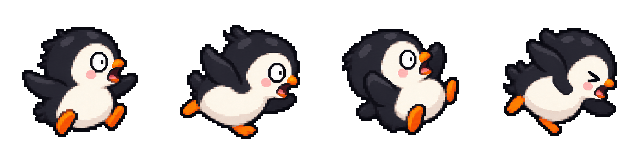
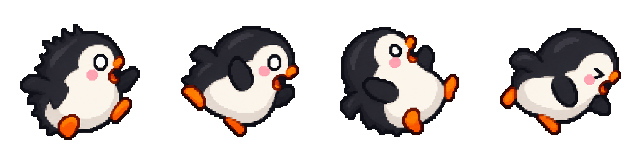
feat(deguri,balloon): 펭귄을 통통·폭신한 체형으로 다시 제작
- 참고 이미지(퍼스나콘)처럼 머리는 작고 몸통이 알처럼 둥글고 푸짐한 펭귄으로 시트 8장 전부 교체(기본/sleep/scuffle/walk, hang/blow/fall/poke)
- MOUTH.penguin 다시 측정(136,81)
- 걷기 시트는 이번엔 다리 교대 규격 검사도 통과
- 검증: verify-creature·ball-round(116x112)·balloon-sheet verify 통과, balloon determinism·qa-deguri-skin-shop 통과, 데구리 경주·둥둥라이더 화면에서 확인

diff --git a/js/balloon-render.js b/js/balloon-render.js
@@ -77,7 +77,7 @@
     //  스킨은 creatures/{동물}-{스킨}-{kind}.webp(데구리 deguri_skin 전부) — 없으면 기본 동물 포즈로 그린다(서기·착지는 스킨 시트 그대로)
     var BA = '/assets/balloon/', BVER = '?v=3';
     var HANG_ANCHOR = [80, 4];
-    var MOUTH = { hedgehog: [141, 91], armadillo: [145, 95], pillbug: [139, 102], turtle: [146, 100], panda: [141, 84], hamster: [141, 92], pufferfish: [145, 100], raccoon: [142, 89], rabbit: [133, 89], ribbonpig: [131, 78], cat: [135, 75], penguin: [133, 79] };   // blow 칸 분홍 꼭지 끝(입) — balloon-sheet.py mouth 로 잰 값
+    var MOUTH = { hedgehog: [141, 91], armadillo: [145, 95], pillbug: [139, 102], turtle: [146, 100], panda: [141, 84], hamster: [141, 92], pufferfish: [145, 100], raccoon: [142, 89], rabbit: [133, 89], ribbonpig: [131, 78], cat: [135, 75], penguin: [136, 81] };   // blow 칸 분홍 꼭지 끝(입) — balloon-sheet.py mouth 로 잰 값
     var BAL_CELL = { w: 96, h: 120, knotX: 48, knotY: 116, bodyW: 88, popCY: 60 };
     var CHUTE = { w: 160, h: 112, rimX: 80, rimY: 108, openW: 150, worldW: 60, lift: 30 };
     var POSE_FPS = { hang: 5, blow: 4, fall: 10 };
